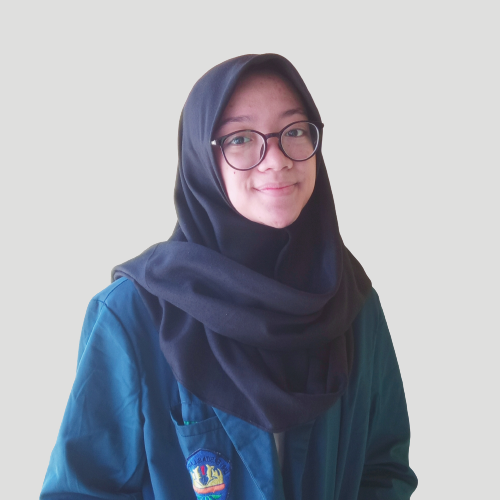
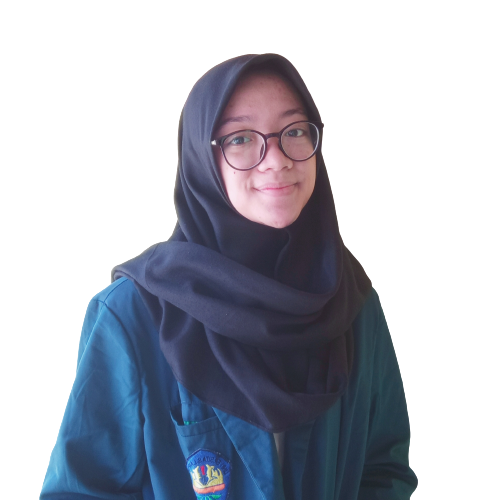
update faq section picture and profile photos

diff --git a/src/scripts/components/faq-section.js b/src/scripts/components/faq-section.js
@@ -5,7 +5,7 @@ class FaqSection extends HTMLElement {
 
   render() {
     this.innerHTML = /* html */ `
-    <div class="container lg:my-10 px-6 mx-auto">
+    <div class="container lg:my-16 px-6 mx-auto">
       <section class="mb-14 lg:mb-0 text-gray-800">
         <div class="container mx-auto xl:px-32 text-center lg:text-left">
           <div class="grid lg:grid-cols-2 items-center">
@@ -31,7 +31,7 @@ class FaqSection extends HTMLElement {
 
             <div>
               <img
-                src="https://mdbootstrap.com/img/new/ecommerce/vertical/075.jpg"
+                src="images/picture/faq-picture.png"
                 class="w-full rounded-lg shadow-lg hidden lg:block"
                 alt=""
               />
